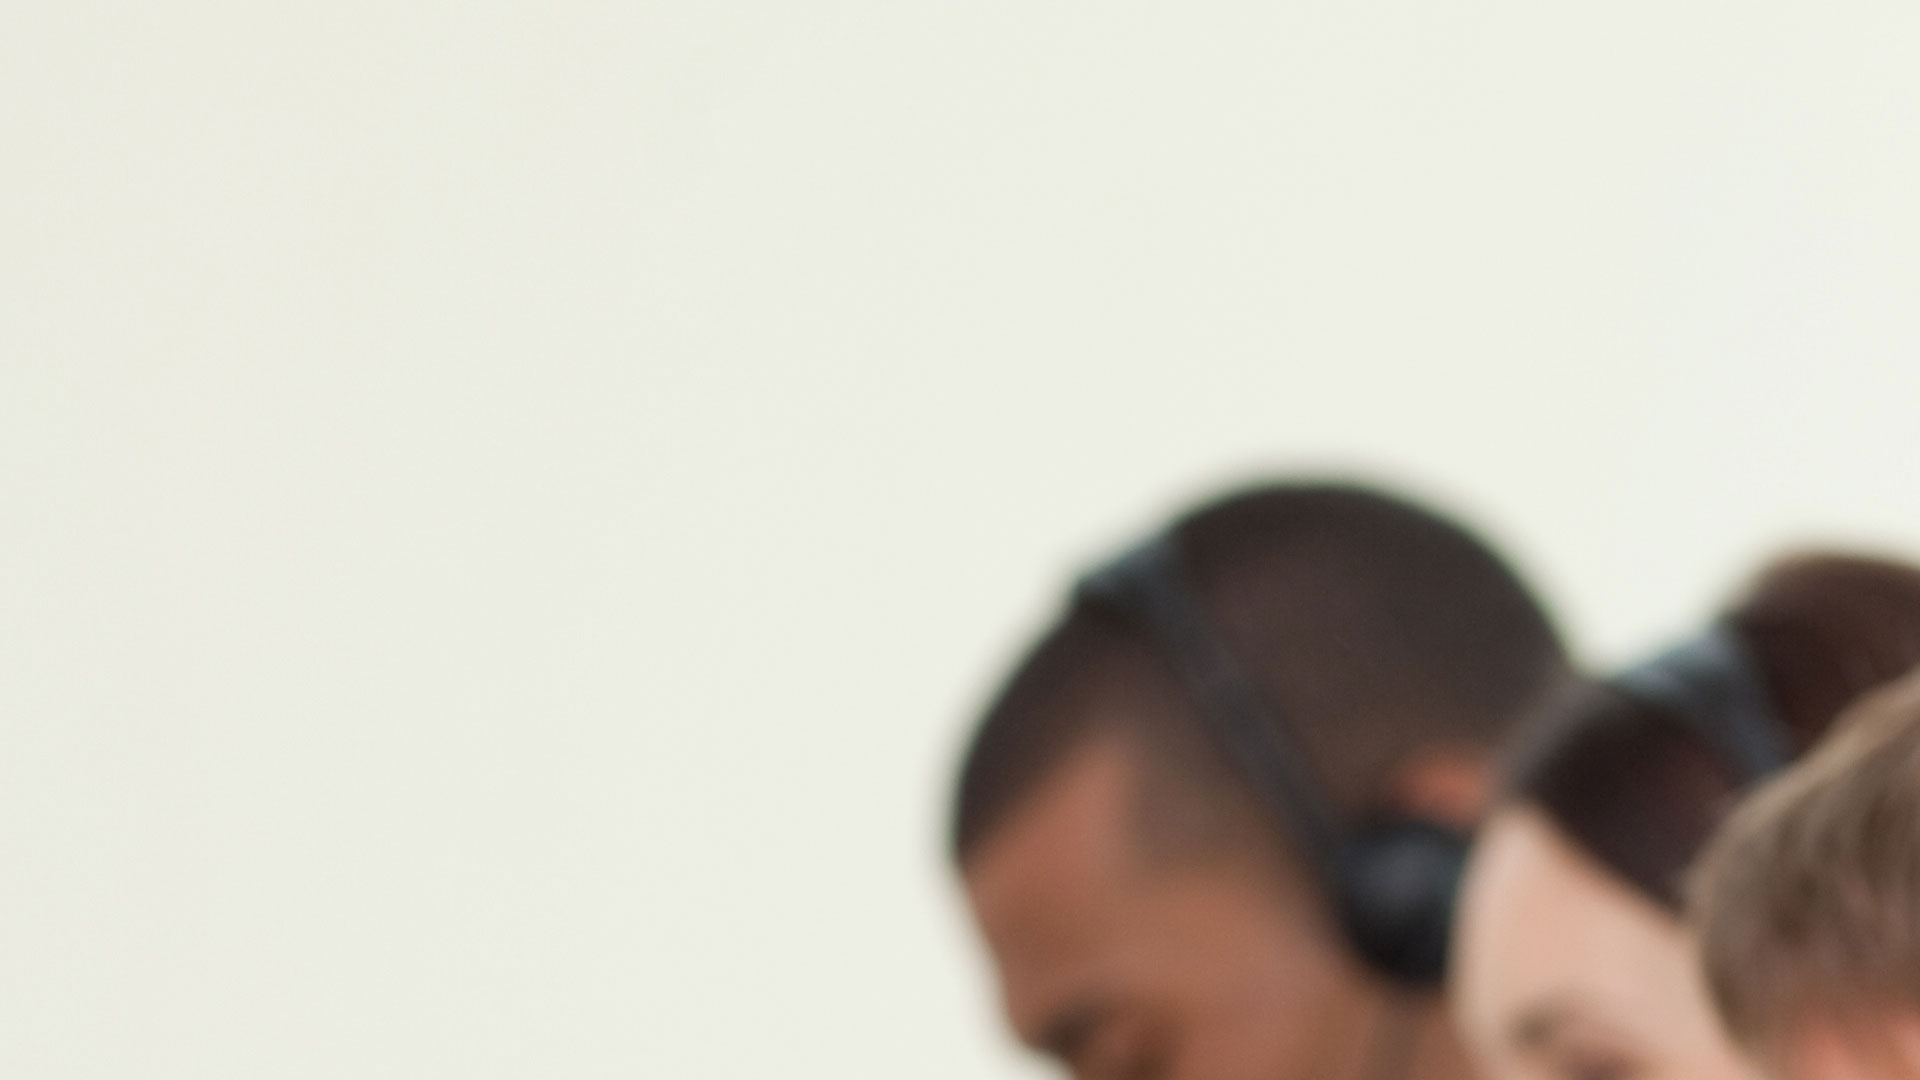
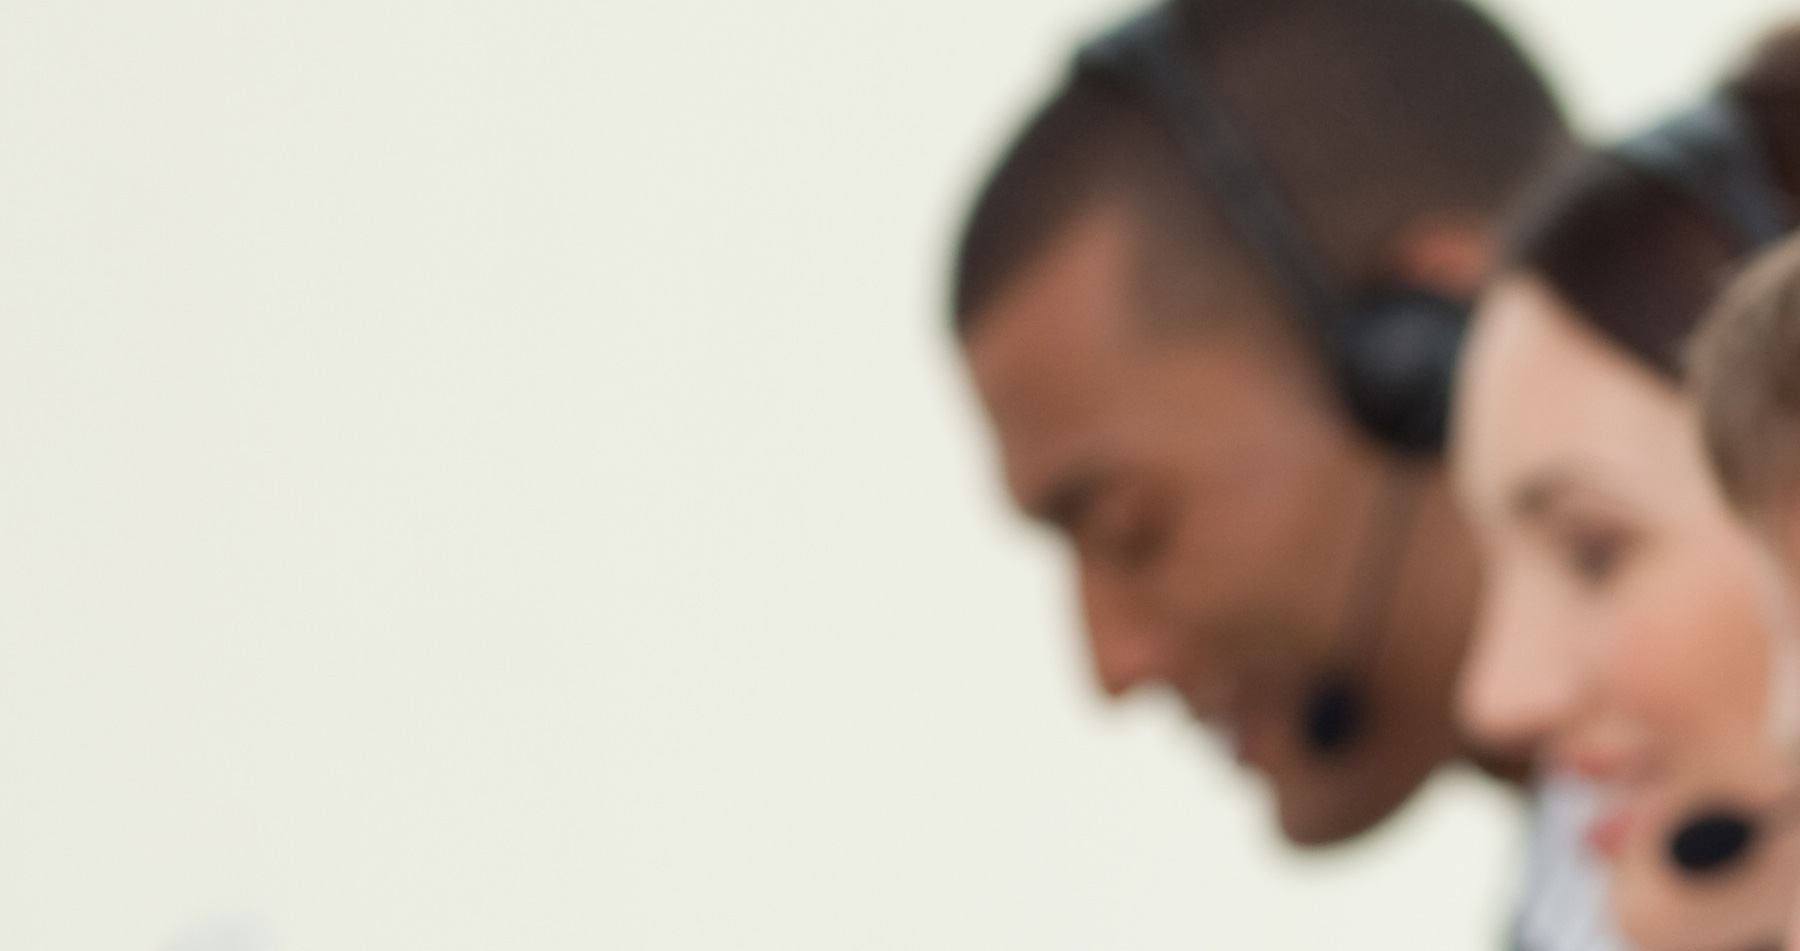
Работаю над центром поддержки

diff --git a/www/new3/support.html b/www/new3/support.html
@@ -1,0 +1,94 @@
+<!DOCTYPE html>
+<html>
+
+<head>
+    <title>Pics 2 Pics</title>
+    <meta charset="utf-8" />
+    <link rel="stylesheet" type="text/css" href="css/style.css">
+    <link rel="stylesheet" type="text/css" href="css/style_huge.css">
+    <link rel="stylesheet" type="text/css" href="css/style_support.css">
+    <link rel="stylesheet" type="text/css" href="plugins/fullpage/jquery.fullpage.min.css">
+    <link rel="stylesheet" type="text/css" href="plugins/jqueryui-effects/jquery-ui.min.css">
+</head>
+
+<body>
+    <!-- .stripe -->
+    <div class="stripe hideBlocks">
+        <div class="wrap">
+            <span class="logo"></span>
+            <div class="call">
+                <a href="#">звоните!</a>
+                <div class="call_dropdown">
+                    <p>Закажите бесплатный обратный звонок</p>
+                    <input type="text" placeholder="Введите ваш номер телефона" />
+                    <a href="#">заказать</a>
+                </div>
+            </div>
+            <h3>8 800 3335116</h3>
+            <span class="period">(ежедневно с 10:00 до 21:00)</span>
+            <a href="#" class="menu_open" data-open="nav" data-target="#nav">
+                <span></span>
+                <span></span>
+                <span></span>
+            </a>
+        </div>
+    </div>
+    <!-- /.stripe -->
+    <div class="left-block">
+        <ul class="list">
+            <li>Заказ</li>
+            <li>Требования к файлу</li>
+            <li>Оплата</li>
+            <li>Доставка</li>
+            <li>Скидки</li>
+            <li>Товар</li>
+            <li>Возврат</li>
+        </ul>
+        <div class="question">Если что-то не так?</div>
+        <a class="chatBtn" href=""></a>
+            </div>
+    <div class="right-block to-right">
+        <div class="text">
+         <p> Как и когда я получу свой заказ?</p>
+
+         <p>в настоящее время Мы доставляем ВАМ картины курьером:</p>
+    <ul>
+        <li>по Москве 2 рабОЧИХ дня</li> 
+    <li>по Санкт-Петербургу 1-2 рАБОЧИХ ДнЯ<li>
+    <li>в дрУГИЕ Города РФ 4-8 рАБОЧИХ ДнЕЙ.<li>
+</ul>
+    <p>Как я узнаю о времени доставки?</p>
+
+    <p>День доставки вам сообщит менеджер после согласования макета и стоимости заказа. Точное время доставки вам сообщит по телефону курьер в день доставки.</p>
+
+<p>Мне нужно получить заказ к конкретному дню. 
+    Что я должен сделать?</p>
+
+    <p>Если у вас есть пожелания по сроку доставки, свяжитесь с нашмими менеджерами.</p>
+
+    <p>подробнее о встрече с курьером см.:</p> 
+    <p>«Как я узнаю о времени доставки?»</p>
+
+    <p>какова стоимость доставки?</p>
+
+    <p>курьерская доставка и доставка до пунктов самовывозов в санкт-петербурге и москве:</p>  
+    <p>450 руб</p>
+
+    <p>самовывоз из нашего офиса: бесплатно.</p>
+    <p>адрес: санкт-петербург, 22 линия в.о. дом 3 корпус 4</p>
+</div>
+    </div>
+    <!-- Scripts -->
+    <script type="text/javascript" src="js/jquery.js"></script>
+    <script type="text/javascript" src="plugins/jqueryui-effects/jquery-ui.min.js"></script>
+    <script type="text/javascript" src="plugins/tweenlite/TweenLite.min.js"></script>
+    <script type="text/javascript" src="plugins/tweenlite/plugins/CSSPlugin.min.js"></script>
+    <script type="text/javascript" src="plugins/tweenlite/easing/EasePack.min.js"></script>
+    <script type="text/javascript" src="plugins/fullpage/jquery.easings.min.js"></script>
+    <script type="text/javascript" src="plugins/fullpage/jquery.slimscroll.min.js"></script>
+    <script type="text/javascript" src="plugins/fullpage/jquery.fullpage.min.js"></script>
+    <script type="text/javascript" src="js/Site.js"></script>
+    <script type="text/javascript" src="js/popup.js"></script>
+</body>
+
+</html>

diff --git a/www/new3/css/style_support.css b/www/new3/css/style_support.css
@@ -1,0 +1,62 @@
+body {
+    background-image: url("../img/image-support.jpg");
+    background-color: #fff;
+    color: #3c3c39;
+    background-repeat: no-repeat;
+    text-transform: uppercase;
+}
+
+.left-block {
+    margin-left: 280px;
+    float: left;
+    width: 300px;
+    min-height: 450px;
+    margin-top: 116px;
+}
+
+.question{
+    margin-left: 40px;
+    width: 210px;
+    min-height: 27px;
+    margin-top: 40px;
+    letter-spacing: 1px;
+}
+
+.right-block {
+    float: right;
+    width: 750px;
+    min-height: 490px;
+    outline: 2px dotted green
+}
+
+.list li {
+    margin-bottom: 17px;
+    padding: 0;
+    text-decoration: none;
+    list-style: none;
+    font-family: "Stem Medium";
+    font-size: 16px;
+    letter-spacing: 2px;
+}
+
+.list li:hover {
+    text-decoration: underline;
+    cursor: pointer;
+}
+
+.chatBtn{
+width: 190px;
+    height: 70px;
+    line-height: 180px;
+    z-index: 50;
+    font-size: 100%;
+    border-radius: 10px;
+    background-position: center;
+    background-repeat: no-repeat;
+    background-size: cover;
+    background-color: #51a8e6;
+    background-image: url(../img/Chatbtn.png);
+    text-align: center;
+    -webkit-box-shadow: 8px 8px 17px 0 rgba(0,0,0,0.15);
+    box-shadow: 8px 8px 17px 0 rgba(0,0,0,0.15);
+}

diff --git a/www/new3/css/style_404.css b/www/new3/css/style_404.css
@@ -1,4 +1,5 @@
 body {
+    
     background-color: #00c853;
     color: #fff;
 }
